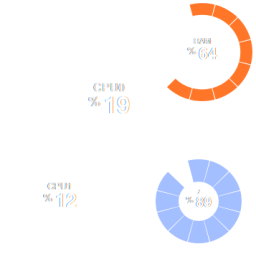
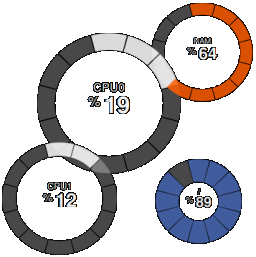
Fixed clock bug

diff --git a/src/share/screenlets/RingSensors/RingSensorsScreenlet.py b/src/share/screenlets/RingSensors/RingSensorsScreenlet.py
@@ -224,10 +224,9 @@ class RingSensorsScreenlet(screenlets.Screenlet):
 		# draw bg (if theme available)
 		ctx.set_operator(cairo.OPERATOR_ADD)
 		
-		b = (int(self.load)*80)/100
-		a = (int(b)*450)/100
+
 		startrad = self.size-(self.thickness/2.0)		
-		a = float(self.load*12)/100
+		a = float(self.load*11)/100
 				
 		
 		ctx.set_line_width( self.thickness )	
@@ -237,19 +236,19 @@ class RingSensorsScreenlet(screenlets.Screenlet):
 				else: col = self.color_back
 				if self.hourMiddle: radius = startrad-(self.ringSpacing*2.0)
 				else: radius = startrad
-				pos = -105+(self.blockSpacing/2.0)+(i*30)
+				pos = -90+(self.blockSpacing/2.0)+(i*30)
 				
 				ctx.arc( 100, 100, radius, math.radians(pos), math.radians(pos+30-self.blockSpacing) )
 				ctx.set_source_rgba(col[0],col[1],col[2],col[3])
 				ctx.stroke()
 		else:
-			a = float(self.load*60)/100
+			a = float(self.load*59)/100
 			for i in range(60):
 				if i == a or (i<=a ): col = self.color_front
 				else: col = self.color_back
 				if self.hourMiddle: radius = startrad-(self.ringSpacing*2.0)
 				else: radius = startrad
-				pos = -93+(self.blockSpacing/2.0)+(i*6)
+				pos = -90+(self.blockSpacing/2.0)+(i*6)
 				
 				ctx.arc( 100, 100, radius, math.radians(pos), math.radians(pos+6-self.blockSpacing) )
 				ctx.set_source_rgba(col[0],col[1],col[2],col[3])
@@ -261,6 +260,7 @@ class RingSensorsScreenlet(screenlets.Screenlet):
 			text = '<small><small><small><small>' +str(self.sensor.split(':')[0]) +'</small></small></small></small>\n'+str(self.sensor.split(':')[1])	
 		else:
 			text = '<small><small><small><small>' +self.sensor +'</small></small></small></small>\n'+self.text_prefix + str(self.load) + self.text_suffix
+		ctx.set_operator(cairo.OPERATOR_OVER)
 		if self.show_text and self.theme:self.theme.draw_text(ctx,text, 0, 70, 'Free Sans', 25,  self.width,pango.ALIGN_CENTER)
 			
 			
